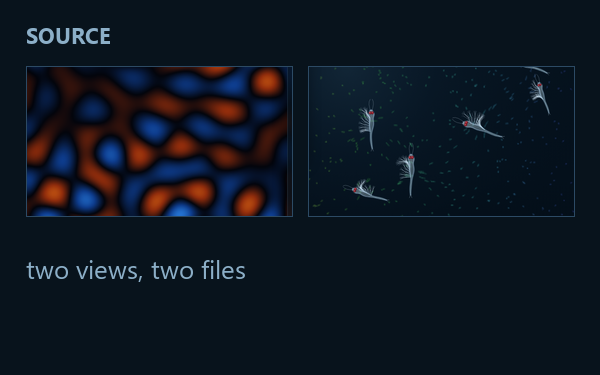
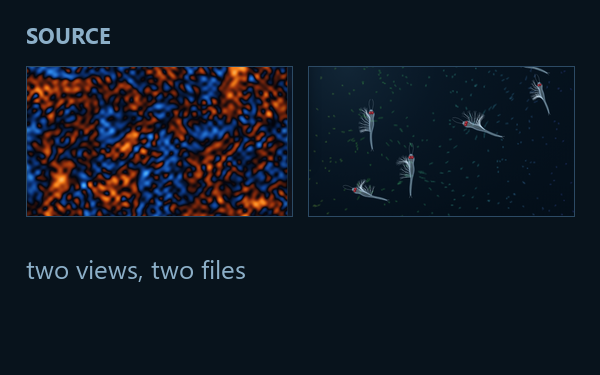
flow thumbnail: capture the cascade after 1,500 steps, not at t=0.1
The first flow.png was a crop of the page at its initial state - t = 0.1, large soft blobs that lost all structure when scaled to
a 345 px card. Now that ?warm= exists, the capture is taken from ?scene=cascade&warm=1500: filaments, small vortices and a
visible large-scale component, all of which survive the downscale. 3,500 steps was the alternative and reads busier at card
size; 1,500 keeps eddies big enough to be recognisable.

repo.png rebuilt from the new capture (it embeds both). Scratch candidates and raw screenshots deleted; they are gitignored
anyway.

Changed region(s): [[0.03, 0.176, 0.48, 0.5867]]

diff --git a/RESUME.md b/RESUME.md
@@ -85,7 +85,7 @@ comments are rejected), so it is a possible venue with an account - not a "no co
 ## Links carry pictures, and scenes deep-link (2026-11-19)
 
 Every link on `index.html` now arrives with a thumbnail: the two views are real captures (`thumbs/flow.png`,
-`thumbs/shrimp.png`, cropped to the field area of a 1280x800 headless Chrome screenshot of the actual page), and the paper,
+`thumbs/shrimp.png`, cropped to the field area of a 1280x800 headless Chrome screenshot of the actual page - the flow one taken from `?scene=cascade&warm=1500`, because the first capture at t=0.1 was soft and its eddies too large to survive downscaling)), and the paper,
 the Quanta account and the repository get drawn cards (`thumbs/paper.png`, `quanta.png`, `repo.png` - the paper card is the
 rod diagram in the app's own colours). Open Graph and Twitter-card metadata point at those images on all three pages, so a
 posted link previews rather than showing a blank box.
